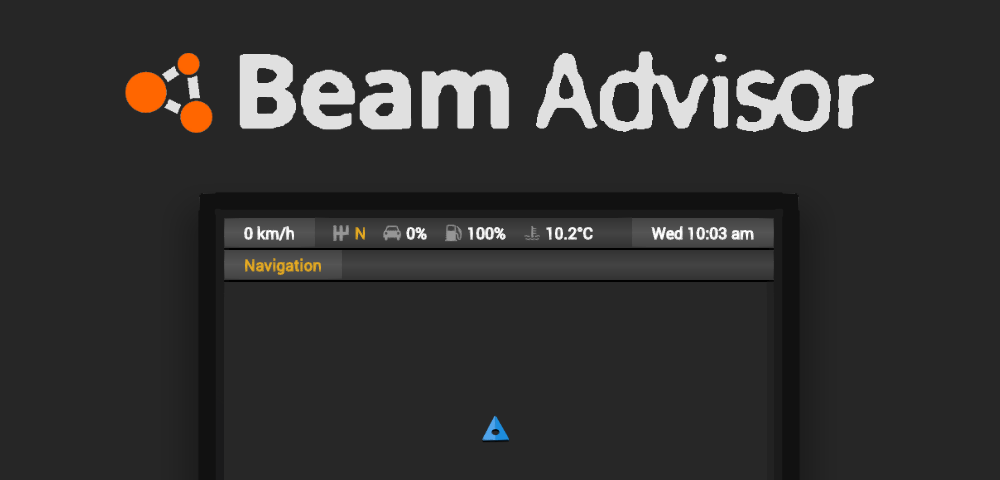
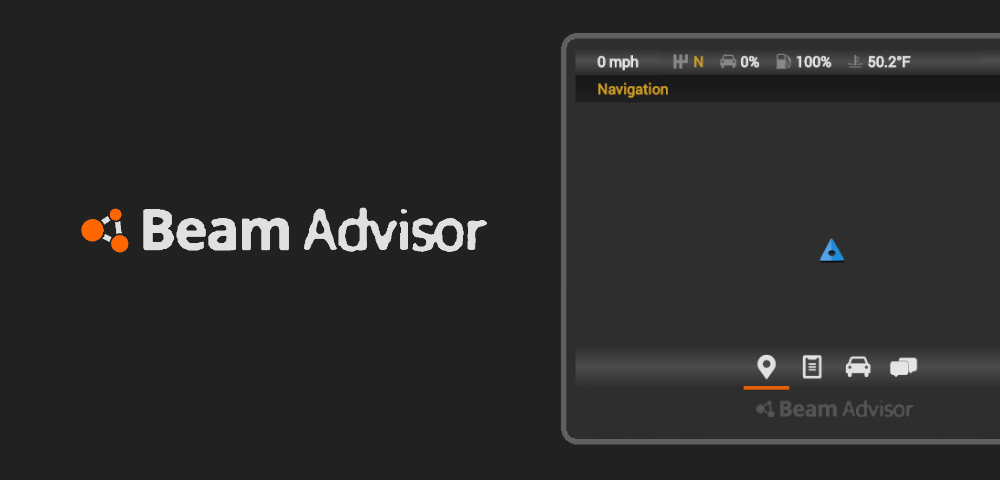
Version 1.2

Changed region(s): [[0.062, 0.0625, 1.0, 0.9375], [0.465, 0.875, 0.527, 0.9375]]

diff --git a/ui/modules/apps/beamadvisor/app.js b/ui/modules/apps/beamadvisor/app.js
@@ -116,6 +116,7 @@ angular.module('beamng.apps')
         weightUnit: localStorage.getItem('beamAdvisor-weightUnit') || 'kg',
         timeDisplay: localStorage.getItem('beamAdvisor-timeDisplay') || '24h',
         frameAppearance: localStorage.getItem('beamAdvisor-frameAppearance') || 'full',
+        visibility: localStorage.getItem('beamAdvisor-visibility') || 'normal',
         lowSpaceMode: ensureBool(localStorage.getItem('beamAdvisor-lowSpaceMode')),
         playAlertSound: ensureBool(localStorage.getItem('beamAdvisor-playAlertSound')),
         alerts: {
@@ -146,6 +147,7 @@ angular.module('beamng.apps')
       let lastDamagePercent = null;
       let dte;
       let dteMi;
+      let rightClicked = false;
 
       // Define elements
       let elements = {
@@ -249,7 +251,9 @@ angular.module('beamng.apps')
             timeDisplay24h: document.getElementById('btn-timeDisplay-24h'),
 
             frameAppearanceFull: document.getElementById('btn-frameAppearance-full'),
-            frameAppearanceReduced: document.getElementById('btn-frameAppearance-reduced')
+            frameAppearanceReduced: document.getElementById('btn-frameAppearance-reduced'),
+
+            changeMapZoom: document.getElementById('btn-changeMapZoom')
           }
         },
 
@@ -298,7 +302,7 @@ angular.module('beamng.apps')
 
       // Change frame appearance
       const changeFrameAppearance = (newAppearance) => {
-        settings.frameAppearance = newAppearance;
+        if (settings.frameAppearance !== newAppearance) settings.frameAppearance = newAppearance;
 
         if (newAppearance === 'full') {
           elements.containers.outerFrame.classList.remove('hidden');
@@ -314,6 +318,26 @@ angular.module('beamng.apps')
           elements.containers.logo.classList.add('hidden');
 
           updateActiveButton(`frameAppearanceReduced`, `frameAppearanceFull`);
+        }
+      }
+
+      // Change visibility
+      const changeVisibility = (newVisibility) => {
+        if (settings.visibility !== newVisibility) settings.visibility = newVisibility;
+
+        if (newVisibility === 'normal') {
+          elements.root.classList.remove('gps-only');
+          elements.root.classList.remove('gone');
+        }
+
+        if (newVisibility === 'gpsOnly') {
+          elements.root.classList.add('gps-only');
+          elements.root.classList.remove('gone');
+        }
+
+        if (newVisibility === 'hidden') {
+          elements.root.classList.add('gone');
+          elements.root.classList.remove('gps-only');
         }
       }
 
@@ -454,9 +478,22 @@ angular.module('beamng.apps')
       elements.checkboxes.configurationTab.alertFuel5Percent.addEventListener('click' , () => changeMessageSetting(elements.checkboxes.configurationTab.alertFuel5Percent,  elements.labels.configurationTab.alertFuel5Percent, 'fuel5Percent', 'Fuel5Percent'));
       elements.checkboxes.configurationTab.alertOutOfFuel.addEventListener('click' , () => changeMessageSetting(elements.checkboxes.configurationTab.alertOutOfFuel,  elements.labels.configurationTab.alertOutOfFuel, 'outOfFuel', 'OutOfFuel'));
 
+      // Add right click handler for changing visibility:
+      elements.root.addEventListener('mousedown', (e) => {
+        if (e.button === 2 && rightClicked === false) {
+          rightClicked = true;
+
+          if (settings.visibility === 'normal') { changeVisibility('gpsOnly'); rightClicked = false; return; }
+          if (settings.visibility === 'gpsOnly') { changeVisibility('hidden'); rightClicked = false; return; }
+          if (settings.visibility === 'hidden') { changeVisibility('normal'); rightClicked = false; return; }
+        }
+      });
+
       // On load:
       // - set the frame appearance
       changeFrameAppearance(settings.frameAppearance);
+      // - set the visibility level
+      changeVisibility(settings.visibility);
       // - set the active tab
       elements.tabs[`tab${toTitleCase(activeTab)}`].classList.add('active');
       elements.buttons.bottomBar[`tab${toTitleCase(activeTab)}`].classList.add('active');
@@ -484,6 +521,7 @@ angular.module('beamng.apps')
 
         // Save settings
         Object.entries(settings).forEach(([key, val]) => {
+          if (key === 'alerts') return;
           localStorage.setItem(`beamAdvisor-${key}`, val);
         });
 
@@ -497,13 +535,16 @@ angular.module('beamng.apps')
       // Triggers when data from a requested stream changes
       scope.$on('streamsUpdate', (event, streams) => {
         // Prevent errors if the player isn't in a car
-        if (elements.containers.outerFrame.classList.contains('hide') && streams.electrics.watertemp !== undefined) elements.containers.outerFrame.classList.remove('hide');
-        if (elements.containers.outerFrame.classList.contains('hide')) return;
-        if (!streams.electrics.watertemp || streams.electrics.watertemp === undefined) elements.containers.outerFrame.classList.add('hide');
+        if (elements.root.classList.contains('hide') && streams.electrics.watertemp !== undefined) elements.root.classList.remove('hide');
+        if (elements.root.classList.contains('hide')) return;
+        if (!streams.electrics.watertemp) elements.root.classList.add('hide');
+
+        // Stop updating if hidden
+        if (elements.root.classList.contains('gone')) return;
 
         // Speed
-        // (Airspeed * 1.12) * 2 gives a (mostly) accurate speed in MPH
-        const rawSpeedMph = (streams.electrics.airspeed * 1.12) * 2;
+        // This is in m/s (meters per second), so m/s to mph is n * 2.237
+        const rawSpeedMph = streams.electrics.wheelspeed * 2.237;
         const speedMph = Math.round(rawSpeedMph);
         const speedKph = Math.round(speedMph * 1.609344);
         updateElementText(elements.labels.topBar.speed, settings.speedUnit === 'mph' ? `${speedMph} mph` : `${speedKph} km/h`);
@@ -733,6 +774,7 @@ angular.module('beamng.apps')
         averageFuelLevels = [];
         dte = null;
         dteMi = null;
+        rightClicked = false;
       });
 
       // Navigation
@@ -754,6 +796,8 @@ angular.module('beamng.apps')
 
       var boolConfig = [false, false, true, true, false, false, true, false];
 
+      var baseMapZoomSpeed = 25;
+      var mapZoomSpeed = 0;
       var mapScale = 1;
       var routeScale = 1/3;
       var zoomStates = [1000, 500, 0, -500, -1000, -2000, -4000, -8000, -16000];
@@ -1207,6 +1251,49 @@ angular.module('beamng.apps')
       bngApi.engineLua('extensions.ui_uiNavi.requestUIDashboardMap()');
       bngApi.engineLua(`extensions.core_collectables.sendUIState()`);
       bngApi.engineLua(`if gameplay_missions_missionEnter then gameplay_missions_missionEnter.sendMissionLocationsToMinimap() end`);
+
+      function changeGPSMapZoom() {
+        zoomSlot++;
+        mapZoomSlot = zoomSlot < zoomStates.length ? zoomSlot : zoomSlot = 0;
+        
+          async function animatedZoom() {
+            mapZoomSpeed = Math.ceil(baseMapZoomSpeed*(zoomStates[mapZoomSlot]-mapZoom)/zoomStates[baseZoomLevel])
+            if (mapZoom > zoomStates[mapZoomSlot] )
+            var i = 0
+            while (mapZoom != zoomStates[mapZoomSlot]) {
+              i++
+              if (i > 1000) {
+                mapZoom = zoomStates[mapZoomSlot] // makes sure it doesnt get stuck in an infinite loop
+                break;
+              } else if (mapZoom > zoomStates[0]) {
+                mapZoom = zoomStates[mapZoomSlot] // resets to how it should be
+                break;
+              } else if (mapZoom < zoomStates[zoomStates.length - 1]) {
+                mapZoom = zoomStates[zoomStates.length - 1] // resets to how it should be
+                break;
+              } else {
+                mapZoom = mapZoom - mapZoomSpeed
+                if (mapZoomSpeed < 0) {
+                  if (mapZoom + 20 >= zoomStates[mapZoomSlot]) {
+                    mapZoom = zoomStates[mapZoomSlot];
+                    break;
+                  }
+                } else {
+                  if (mapZoom - 20 <= zoomStates[mapZoomSlot]) {
+                    mapZoom = zoomStates[mapZoomSlot];
+                    break;
+                  }
+                }
+                await sleep(15);
+              }
+            }
+            setupMap(null);
+          }
+          animatedZoom();
+      }
+
+      // This has to be done here so the function exists
+      elements.buttons.configurationTab.changeMapZoom.addEventListener('click', () => changeGPSMapZoom());
     }
   };
 }]);

diff --git a/ui/modules/apps/beamadvisor/app.css b/ui/modules/apps/beamadvisor/app.css
@@ -6,6 +6,12 @@
   width: 100%;
 }
 
+/* .hide can be added to hide the entire UI, if the player gets out of a vehicle */
+.beam-advisor.hide {
+  display: none !important;
+  visibility: hidden !important;
+}
+
 
 
 /* --- Utilities --- */
@@ -48,15 +54,9 @@
   border-radius: 18px;
 }
 
-/* .hidden can be added to make the border treansparent */
+/* .hidden can be added to make the border transparent */
 .beam-advisor .frame-outer.hidden {
   border-color: transparent !important;
-}
-
-/* .hide can be added to hide the entire UI, if the player gets out of a vehicle */
-.beam-advisor .frame-outer.hide {
-  display: none !important;
-  visibility: hidden !important;
 }
 
 /* Inner frame */
@@ -427,4 +427,32 @@
 .beam-advisor.low-space-mode .nav-button img {
   width: auto;
   height: 24px !important;
+}
+
+
+
+/* --- Hiding --- */
+
+/* .gps-only can be added to hide everything but the content container */
+.beam-advisor.gps-only *:not(.content-container) {
+  background-color: transparent !important;
+  color: transparent !important;
+  border-color: transparent !important;
+  background-image: none !important;
+}
+
+.beam-advisor.gps-only img {
+  display: none !important;
+  visibility: hidden !important;
+}
+
+/* .gone can be added to hide the UI, but doesn't make it uninteractable */
+.beam-advisor.gone * {
+  opacity: 0.05;
+}
+
+.beam-advisor.gone .frame-outer {
+  border: none !important;
+  border-bottom: 6px solid #ffffff3d !important;
+  border-radius: 0 !important;
 }

diff --git a/ui/modules/apps/beamadvisor/app.html b/ui/modules/apps/beamadvisor/app.html
@@ -200,7 +200,7 @@
               </span>
             </p>
 
-            <hr />
+            <hr style="margin: 10px 20px; border: 1px solid #636363a2;" />
 
             <p class="row bg-dark">
               Park Brake On Alert
@@ -239,6 +239,15 @@
               <span style="float: right;">
                 <input type="checkbox" id="chk-alert-outOfFuel" name="alert-outOfFuel" value="AlertOutOfFuel" />
                 <label for="alert-outOfFuel" id="alert-outOfFuel-value">Disabled</label>
+              </span>
+            </p>
+
+            <h4 class="row">Navigation/GPS</h4>
+
+            <p class="row bg-dark">
+              Change Zoom Level
+              <span style="float: right;">
+                <button class="ui-button" id="btn-changeMapZoom">Change Zoom</button>
               </span>
             </p>
           </div>
